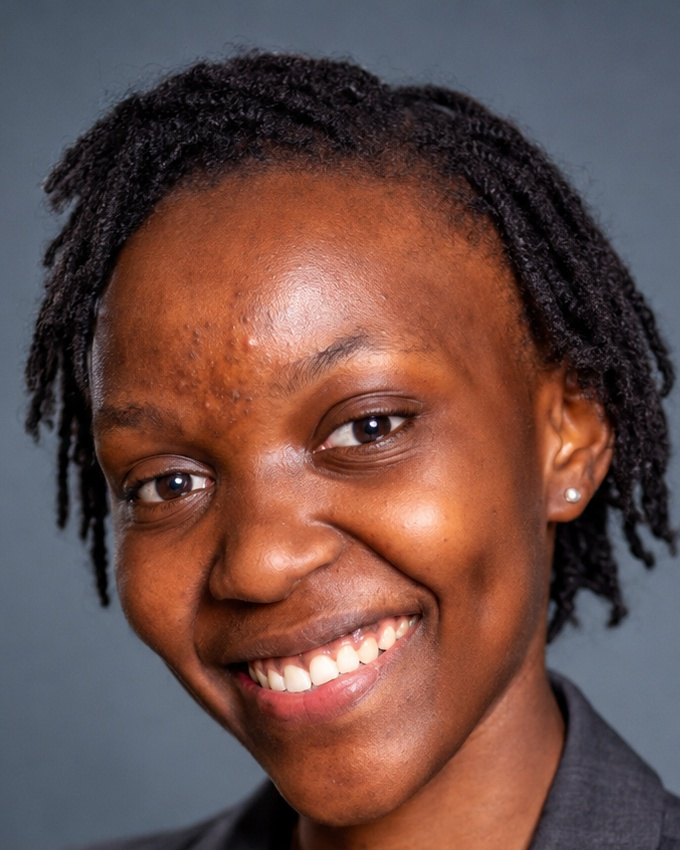
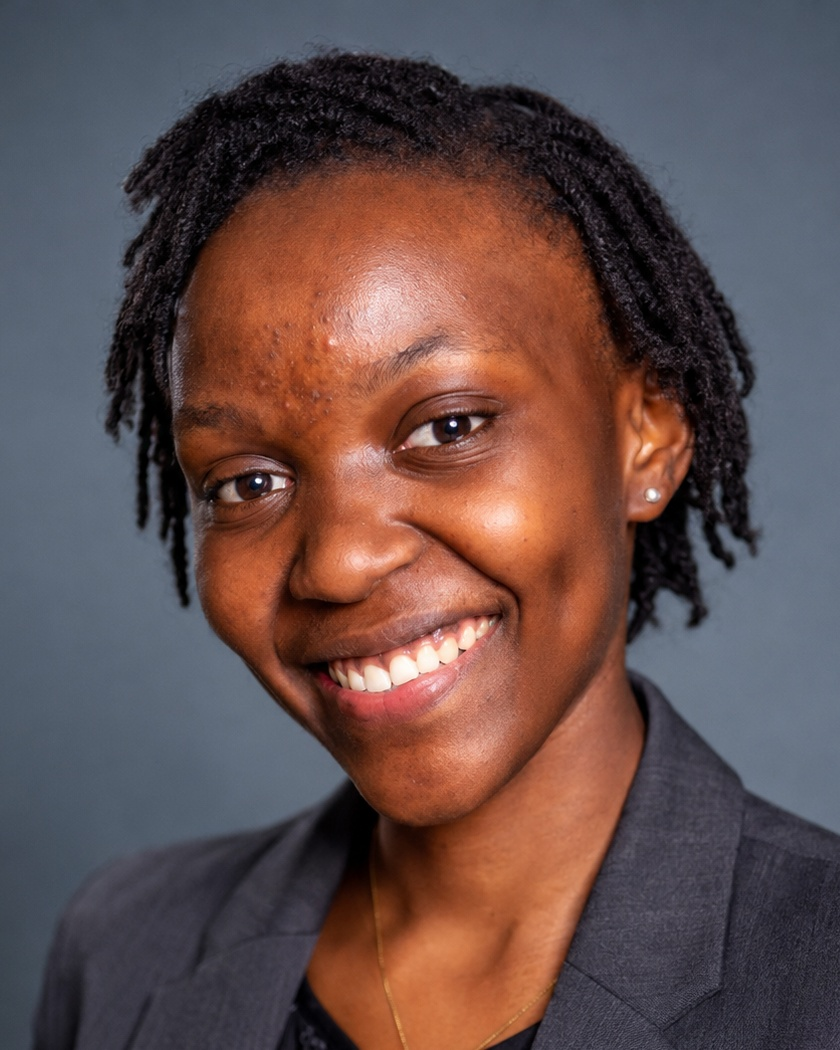
Update director photos/content and add contact form exit control
- Re-crop Collins' photo from the new collinsA.jpeg source, and zoom
  Mercy's out to show her collar instead of a tight face-only crop.
- Rewrite Samuel's profile with his real content: hero copy, new
  expertise tags, and a rewritten bio.
- Add an optional `steps` field to Member and a new "How {name} Works"
  numbered-process section in MemberDetail (mirrors the agency page's
  "Our Approach" pattern), used for Samuel's 4-step process. Rename
  the existing bio heading from "How {name} Works" to "About {name}"
  across all directors so it matches its own eyebrow label and no
  longer collides with the new section's title.
- Add a close (X) button to the Contact page's inline booking form,
  visible once past step 1, that resets the flow back to a blank form
  — same pattern as the BookingModal used elsewhere on the site.

Claude-Session: https://claude.ai/code/session_01ACuagng4gqUNtgphbDtXsq

diff --git a/src/data/members.tsx b/src/data/members.tsx
@@ -10,6 +10,7 @@ export interface Member {
   description: string;
   bio?: string[];
   expertise: string[];
+  steps?: { num: string; title: string; desc: string }[];
 }
 
 export const members: Member[] = [
@@ -85,15 +86,21 @@ export const members: Member[] = [
     agency: 'I3 Launchpad',
     agencySlug: 'i3-launchpad',
     photo: '/profile/samuel-headshot.jpg',
-    description: 'Samuel enjoys figuring out things—especially the messy, confusing, "we have a great idea but now what?" part of building a business.',
+    description: 'Samuel helps founders and businesses build, grow, scale, and move into their next stage. From turning an idea into a viable business and taking it to market, to scaling operations, entering new markets, and preparing for acquisition or exit, he helps businesses understand where they are and what needs to happen next.',
     bio: [
-      'Samuel enjoys figuring out things—especially the messy, confusing, "we have a great idea but now what?" part of building a business.',
-      'He works with founders and SMEs to make sense of their ideas, sharpen their business models, solve the problems getting in the way, and turn good intentions into things that actually work—enhancing execution.',
-      'He\'s big on getting things moving. Less theory. More "okay, so what are we doing about it?"',
-      'And if he doesn\'t know the answer, he\'ll probably know someone who does.',
-      'He builds with founders, not just advises them; turns complex problems into practical next steps; and connects people, ideas, and opportunities—believing good businesses should solve real problems. Always curious, occasionally overthinks, usually figures it out.',
+      'Samuel works with founders, startups, and SMEs to help them move from one stage of business to the next.',
+      'He supports businesses from innovation and venture building through market entry, growth, scaling, expansion, and strategic exits.',
+      'His approach starts with a simple question: where is the business now, where does it need to go, and what is stopping it from getting there?',
+      'From there, Samuel helps build clear strategies and practical plans that can actually be executed. He believes good strategy should lead to action. Less theory. More movement.',
+      'Whether a business is building something new, looking for customers, entering a new market, scaling its operations, or exploring acquisition and exit opportunities, Samuel helps bring clarity to the next move.',
     ],
-    expertise: ['Business Diagnostics', 'Strategy & Roadmapping', 'Mentorship & Advisory', 'Operational Execution Support'],
+    expertise: ['Venture Building', 'Go-to-Market', 'Business Scaling', 'Market Expansion', 'Exit Strategy'],
+    steps: [
+      { num: '01', title: 'Understand the Business', desc: 'Understand the business, its goals, its stage, and where it wants to go.' },
+      { num: '02', title: 'Identify the Constraint', desc: 'Find what is holding the business back or slowing its growth.' },
+      { num: '03', title: 'Build the Strategy', desc: 'Create a clear plan for growth, market entry, scaling, expansion, or transition.' },
+      { num: '04', title: 'Support Execution', desc: 'Turn the strategy into practical actions and support the business in making progress.' },
+    ],
   },
 ];
 

diff --git a/src/components/components/MemberDetail.tsx b/src/components/components/MemberDetail.tsx
@@ -136,7 +136,7 @@ export default function MemberDetail({ member }: { member: Member }) {
                 </span>
               </div>
               <h2 className='font-bold text-gray-900 mb-6' style={{ fontFamily: 'League Spartan, sans-serif', fontSize: 'clamp(1.8rem, 3.5vw, 2.6rem)' }}>
-                How {firstName} Works
+                About {firstName}
               </h2>
               <div className='space-y-4 mb-9'>
                 {bioParagraphs.map((paragraph, i) => (
@@ -192,6 +192,40 @@ export default function MemberDetail({ member }: { member: Member }) {
           </div>
         </div>
       </section>
+
+      {/* ── How they work — numbered process steps (only when provided) ── */}
+      {member.steps && member.steps.length > 0 && (
+        <section className='py-16 md:py-24 bg-white'>
+          <div className='max-w-6xl mx-auto px-6 md:px-12'>
+            <div className='flex items-center gap-3 mb-4'>
+              <span className='block w-6 h-px' style={{ backgroundColor: ACCENT }} />
+              <span className='text-[11px] font-bold tracking-[0.22em] uppercase' style={{ color: ACCENT, fontFamily: 'DM Sans, sans-serif' }}>
+                Process
+              </span>
+            </div>
+            <h2 className='font-bold text-gray-900 mb-10' style={{ fontFamily: 'League Spartan, sans-serif', fontSize: 'clamp(1.8rem, 3.5vw, 2.6rem)' }}>
+              How {firstName} Works
+            </h2>
+            <div className='grid grid-cols-1 sm:grid-cols-2 lg:grid-cols-4 gap-4'>
+              {member.steps.map((step) => (
+                <div
+                  key={step.num}
+                  className='rounded-2xl p-6 border border-gray-100 hover:border-blue-100 hover:shadow-md hover:-translate-y-0.5 transition-all duration-300'
+                  style={{ backgroundColor: '#fafafa' }}
+                >
+                  <div className='flex items-center gap-3 mb-3'>
+                    <div className='w-9 h-9 rounded-full flex items-center justify-center flex-shrink-0' style={{ backgroundColor: 'rgba(48,108,236,0.1)', border: '1.5px solid rgba(48,108,236,0.2)' }}>
+                      <span className='text-xs font-bold' style={{ color: ACCENT, fontFamily: 'League Spartan, sans-serif' }}>{step.num}</span>
+                    </div>
+                    <h3 className='text-[15px] font-bold text-gray-900 leading-snug' style={{ fontFamily: 'League Spartan, sans-serif' }}>{step.title}</h3>
+                  </div>
+                  <p className='text-gray-600 text-sm leading-relaxed' style={{ fontFamily: 'DM Sans, sans-serif' }}>{step.desc}</p>
+                </div>
+              ))}
+            </div>
+          </div>
+        </section>
+      )}
 
       {agency && (
         <BookingModal

diff --git a/src/components/components/contact.tsx b/src/components/components/contact.tsx
@@ -155,6 +155,19 @@ export default function ContactSection() {
     setStep('calendly');
   };
 
+  const resetForm = () => {
+    setError(null);
+    setStep('form');
+    setFormData({
+      firstName: '',
+      lastName: '',
+      email: '',
+      phone: '',
+      companyName: '',
+      serviceRequested: '',
+    });
+  };
+
   const consultantCalendlyUrl = getAgency(formData.serviceRequested)?.calendlyUrl ?? CALENDLY_URL;
   const calendlyUrl = `${consultantCalendlyUrl}?hide_gdpr_banner=1&primary_color=306CEC&name=${encodeURIComponent(formData.firstName + ' ' + formData.lastName)}&email=${encodeURIComponent(formData.email)}`;
 
@@ -216,7 +229,20 @@ export default function ContactSection() {
 
           {/* ── Right: Form / Calendar / Success ── */}
           <div style={anim(section.inView, 0.18)}>
-            <div className='bg-white rounded-3xl shadow-2xl p-8 md:p-10' style={{ fontFamily: 'DM Sans, sans-serif' }}>
+            <div className='relative bg-white rounded-3xl shadow-2xl p-8 md:p-10' style={{ fontFamily: 'DM Sans, sans-serif' }}>
+
+              {step !== 'form' && (
+                <button
+                  type='button'
+                  onClick={resetForm}
+                  aria-label='Close and start over'
+                  className='absolute top-5 right-5 md:top-6 md:right-6 text-gray-400 hover:text-gray-600 transition-colors z-10'
+                >
+                  <svg className='w-6 h-6' fill='none' stroke='currentColor' viewBox='0 0 24 24'>
+                    <path strokeLinecap='round' strokeLinejoin='round' strokeWidth={2} d='M6 18L18 6M6 6l12 12' />
+                  </svg>
+                </button>
+              )}
 
               {/* Success */}
               {step === 'success' && (
